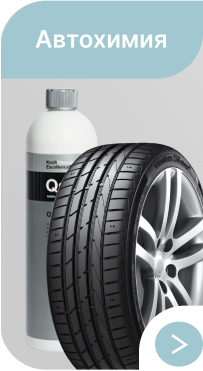
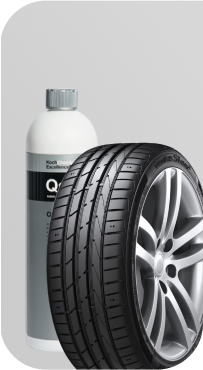
upd8:test

diff --git a/css/main.css b/css/main.css
@@ -648,6 +648,7 @@
 .auto_chemical_img {
     width: 100%;
     height: auto;
+    border-radius: 44.34px 0px 0 0px;
 }
 
 .auto-clear-care_route {
@@ -677,7 +678,7 @@
     align-items: flex-start;
     gap: 20px;
     height: 100%;
-    background-image: url("/assets/image/11.png");
+    background-image: url("/assets/image/6.jpg");
     background-size: cover;
     background-repeat: no-repeat;
     padding: 40px 15px 0 60px;
@@ -789,7 +790,7 @@
 
 .discount_section {
     margin-top: 80px;
-    background-image: url("/assets/image/7.png");
+    background-image: url("/assets/image/7.jpg");
     background-size: cover;
     background-repeat: no-repeat;
 }

diff --git a/index.html b/index.html
@@ -253,7 +253,7 @@
             <div class="about-us_row">
                 <div class="col-7 about-us_img_col">
                     <div class="about-us_img_box">
-                        <img src="/assets/image/13.png" alt="about us" class="about-us_img">
+                        <img src="/assets/image/6.jpg" alt="about us" class="about-us_img">
                     </div>
                 </div>
                 <div class="col-5 about-us_info_col">
